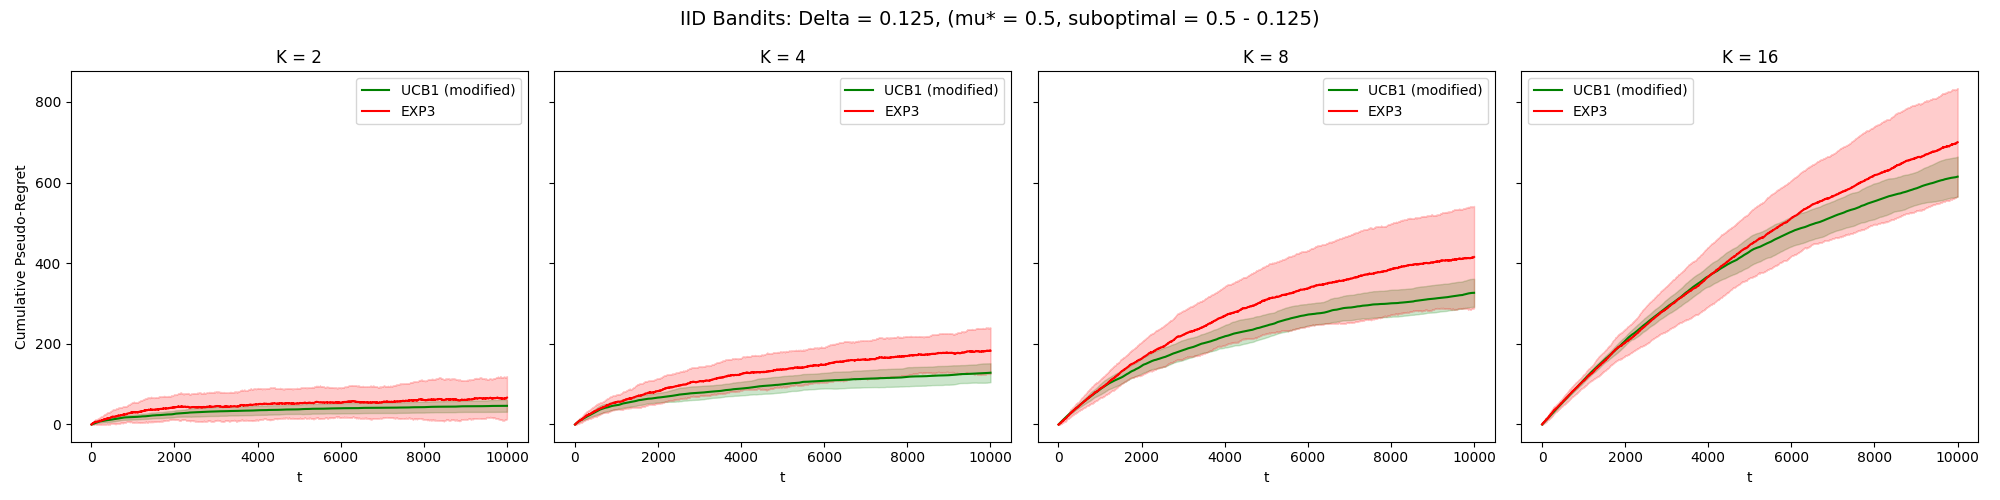
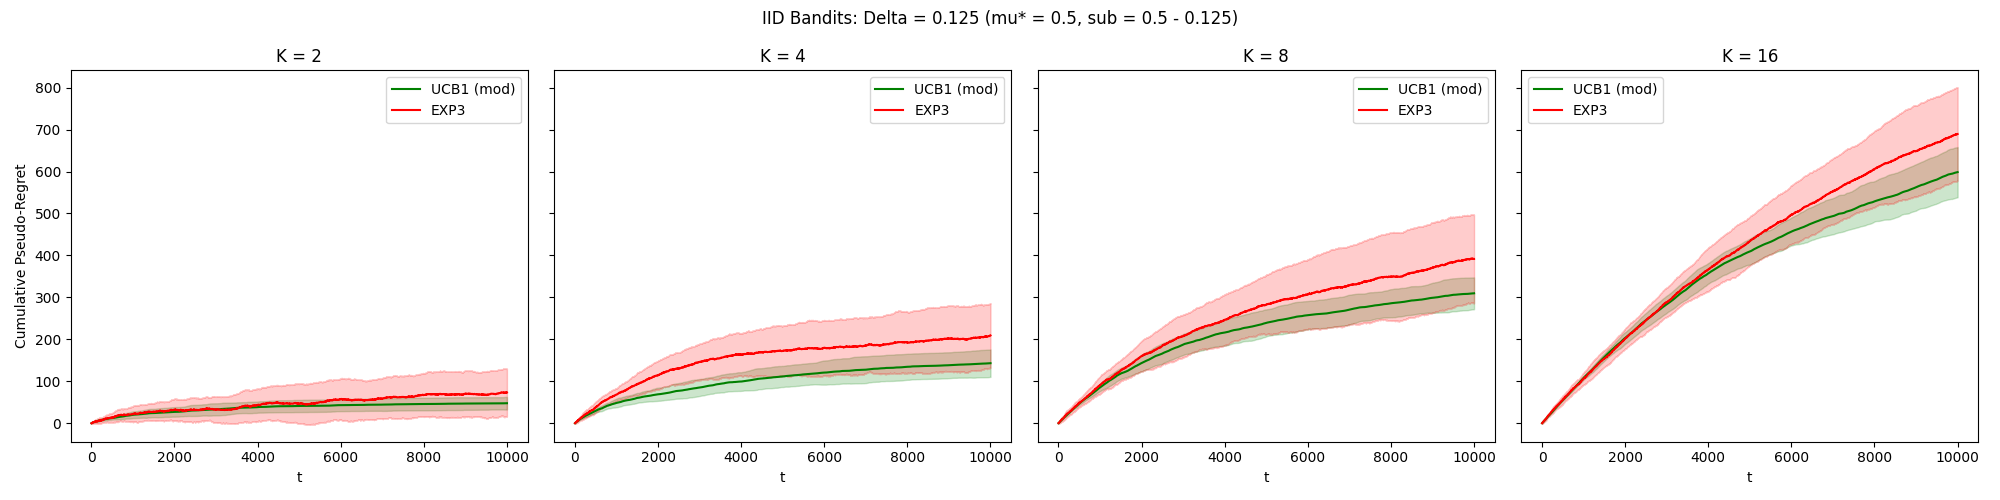
Commented, runned and updated exercise

diff --git a/Home Assignment 5/Code/exercise_5_11.py b/Home Assignment 5/Code/exercise_5_11.py
@@ -1,57 +1,69 @@
 import numpy as np
 import matplotlib
-matplotlib.use('Agg')  # Ensures we can save figures without displaying them
+matplotlib.use('Agg')  # so we can save figures without displaying them
 import matplotlib.pyplot as plt
 
 ###############################################################################
-# 0) ADVERSARIAL REWARD FUNCTION (for worst-case break experiment)
+# 0) ADVERSARIAL REWARD FUNCTION
 ###############################################################################
 def adversarial_reward(t, arm, T, epsilon=0.01):
     """
-    Returns deterministic (or nearly deterministic) rewards for the break experiment.
-    For t < T/2: arm 0 yields 0 and arm 1 yields 1.
-    For t >= T/2: arm 0 yields 1 and arm 1 yields 1 with probability epsilon, else 0.
+    Worst-case reward schedule:
+      - For t < T/2:
+          Arm 0: reward = 0
+          Arm 1: reward = 1
+      - For t >= T/2:
+          Arm 0: reward = 1
+          Arm 1: reward = 1 with probability epsilon, else 0
     """
     if t < T/2:
-        return 0 if arm == 0 else 1
+        # first half: only arm 1 is good
+        return 1 if arm == 1 else 0
     else:
-        return 1 if arm == 0 else (1 if np.random.rand() < epsilon else 0)
+        # second half: only arm 0 is good (arm 1 is almost always bad)
+        if arm == 0:
+            return 1
+        else:
+            return 1 if np.random.rand() < epsilon else 0
 
 ###############################################################################
 # 1) HELPER FUNCTIONS
 ###############################################################################
 def bernoulli_sample(p):
-    """Return 1 with probability p, else 0."""
+    """Returns 1 with probability p, else 0."""
     return 1 if (np.random.rand() < p) else 0
 
-def run_ucb(T, means, version='modified', nonstationary=False, worst_case=False, epsilon=0.01):
+def run_ucb(T, means, version='modified', nonstationary=False,
+            worst_case=False, epsilon=0.01):
     """
-    Run UCB1 (using the 'modified' bonus: sqrt(log t / n_a)) on a bandit problem.
-    If nonstationary is True, then the rewards change after t >= T/2.
-    If worst_case is True, we use a worst-case adversarial reward function (see adversarial_reward).
+    Runs the 'modified' UCB1 algorithm:
+      - bonus = sqrt((log t) / n_arm)
+    If worst_case=True and nonstationary=True, uses 'adversarial_reward' instead
+    of simple Bernoulli with means[].
     """
     n_arms = len(means)
     best_arm = np.argmax(means)
+    # gap[a] = difference between best mean and the mean of arm a
     gap = [means[best_arm] - means[a] for a in range(n_arms)]
     
-    counts = np.zeros(n_arms, dtype=int)   # pulls per arm
-    values = np.zeros(n_arms)             # running average rewards
+    counts = np.zeros(n_arms, dtype=int)  # how many times each arm was played
+    values = np.zeros(n_arms)            # empirical average of each arm
     regrets = np.zeros(T)
     cumulative_regret = 0.0
     
-    # Initialization: pull each arm once.
+    # Initialize by pulling each arm once
     for a in range(n_arms):
         if nonstationary and worst_case:
-            # For initialization, t is taken as a (which is < T/2 if n_arms is small)
-            reward = adversarial_reward(t=a, arm=a, T=T, epsilon=epsilon)
+            reward = adversarial_reward(a, a, T, epsilon)
         elif nonstationary:
-            # Original nonstationary: for arm 1, if a >= T/2 then force reward 0.
+            # If it's the "simple" break scenario: arm 1 => reward=0 if a>=T/2
             if a == 1 and a >= T/2:
                 reward = bernoulli_sample(0.0)
             else:
                 reward = bernoulli_sample(means[a])
         else:
             reward = bernoulli_sample(means[a])
+        
         counts[a] = 1
         values[a] = reward
         cumulative_regret += gap[a]
@@ -59,16 +71,19 @@ def run_ucb(T, means, version='modified', nonstationary=False, worst_case=False,
     
     # Main loop
     for t in range(n_arms, T):
-        current_time = t + 1  # because t starts at 0
+        current_time = t + 1
         ucb_values = np.zeros(n_arms)
         
+        # Compute UCB indices
         for a in range(n_arms):
             avg_reward = values[a]
             bonus = np.sqrt(np.log(current_time) / counts[a])
             ucb_values[a] = avg_reward + bonus
         
+        # Choose the arm with the highest UCB
         chosen_arm = np.argmax(ucb_values)
         
+        # Get the reward depending on the scenario
         if nonstationary and worst_case:
             reward = adversarial_reward(t, chosen_arm, T, epsilon)
         elif nonstationary:
@@ -79,8 +94,11 @@ def run_ucb(T, means, version='modified', nonstationary=False, worst_case=False,
         else:
             reward = bernoulli_sample(means[chosen_arm])
         
+        # Update counts and empirical average
         counts[chosen_arm] += 1
         values[chosen_arm] += (reward - values[chosen_arm]) / counts[chosen_arm]
+        
+        # Update cumulative regret
         cumulative_regret += gap[chosen_arm]
         regrets[t] = cumulative_regret
     
@@ -88,23 +106,31 @@ def run_ucb(T, means, version='modified', nonstationary=False, worst_case=False,
 
 def run_exp3(T, means, nonstationary=False, worst_case=False, epsilon=0.01):
     """
-    Run the EXP3 algorithm with time-varying learning rate eta_t = sqrt(log(K)/(t*K)).
-    For rewards in [0,1], define loss = 1 - reward.
-    If nonstationary and worst_case are True, use adversarial_reward.
+    Runs EXP3 with time-varying learning rate:
+      eta_t = sqrt(log(K) / (t*K))
+    If worst_case=True (and nonstationary=True), uses adversarial_reward.
     """
     n_arms = len(means)
-    best_mean = np.max(means)
+    best_mean = np.max(means)  # might not match actual adv. scenario, can cause negative regrets
     regrets = np.zeros(T)
     cumulative_regret = 0.0
-    L = np.zeros(n_arms)  # cumulative losses
+    
+    # L[a] is cumulative loss for each arm
+    L = np.zeros(n_arms)
     
     for t in range(T):
+        # compute learning rate
         eta_t = np.sqrt(np.log(n_arms) / ((t+1) * n_arms))
+        
+        # subtract-min trick for stability
         L_min = np.min(L)
         w = np.exp(-eta_t * (L - L_min))
         p = w / np.sum(w)
+        
+        # pick an arm according to p
         chosen_arm = np.random.choice(n_arms, p=p)
         
+        # get the reward from environment
         if nonstationary and worst_case:
             reward = adversarial_reward(t, chosen_arm, T, epsilon)
         elif nonstationary:
@@ -115,29 +141,33 @@ def run_exp3(T, means, nonstationary=False, worst_case=False, epsilon=0.01):
         else:
             reward = bernoulli_sample(means[chosen_arm])
         
+        # update pseudo-regret
         cumulative_regret += (best_mean - reward)
         regrets[t] = cumulative_regret
-        est_loss = (1 - reward) / max(p[chosen_arm], 1e-12)
-        L[chosen_arm] += est_loss
+        
+        # update losses for chosen_arm (1 - reward) with importance weighting
+        loss = (1 - reward) / max(p[chosen_arm], 1e-12)
+        L[chosen_arm] += loss
     
     return regrets
 
 ###############################################################################
-# 2) IID EXPERIMENTS (unchanged)
+# 2) IID EXPERIMENTS
 ###############################################################################
 def run_experiments_iid(T=10_000, n_runs=20):
     """
-    Run IID experiments (with different gap values) for each K in {2,4,8,16} comparing:
-       - UCB1 (modified)
-       - EXP3
-    We assume one best arm with mean 0.5 and suboptimal arms with mean 0.5 - Delta.
+    Runs i.i.d. experiments for K in {2,4,8,16} and Delta in {1/4,1/8,1/16}.
+    Compares:
+      - UCB1 (modified)
+      - EXP3
+    We assume one best arm with mean 0.5, suboptimal arms with mean = 0.5 - Delta.
     """
     K_values = [2, 4, 8, 16]
     deltas = [1/4, 1/8, 1/16]
     
     for Delta in deltas:
         fig, axes = plt.subplots(1, len(K_values), figsize=(20,5), sharey=True)
-        fig.suptitle(f"IID Bandits: Delta = {Delta} (mu* = 0.5, suboptimal = 0.5 - {Delta})", fontsize=14)
+        fig.suptitle(f"IID Bandits: Delta = {Delta} (mu* = 0.5, sub = 0.5 - {Delta})")
         
         for i, K in enumerate(K_values):
             mu_star = 0.5
@@ -149,9 +179,10 @@ def run_experiments_iid(T=10_000, n_runs=20):
             
             for r in range(n_runs):
                 reg_ucb = run_ucb(T, means, version='modified', nonstationary=False)
-                all_reg_ucb[r, :] = reg_ucb
-                reg_exp3 = run_exp3(T, means, nonstationary=False)
-                all_reg_exp3[r, :] = reg_exp3
+                all_reg_ucb[r,:] = reg_ucb
+                
+                reg_e3 = run_exp3(T, means, nonstationary=False)
+                all_reg_exp3[r,:] = reg_e3
             
             mean_ucb = np.mean(all_reg_ucb, axis=0)
             std_ucb  = np.std(all_reg_ucb, axis=0)
@@ -160,10 +191,13 @@ def run_experiments_iid(T=10_000, n_runs=20):
             
             ax = axes[i]
             t_axis = np.arange(1, T+1)
-            ax.plot(t_axis, mean_ucb, label="UCB1 (modified)", color='green')
-            ax.fill_between(t_axis, mean_ucb - std_ucb, mean_ucb + std_ucb, alpha=0.2, color='green')
+            ax.plot(t_axis, mean_ucb, label="UCB1 (mod)", color='green')
+            ax.fill_between(t_axis, mean_ucb - std_ucb, mean_ucb + std_ucb,
+                            alpha=0.2, color='green')
             ax.plot(t_axis, mean_exp3, label="EXP3", color='red')
-            ax.fill_between(t_axis, mean_exp3 - std_exp3, mean_exp3 + std_exp3, alpha=0.2, color='red')
+            ax.fill_between(t_axis, mean_exp3 - std_exp3, mean_exp3 + std_exp3,
+                            alpha=0.2, color='red')
+            
             ax.set_title(f"K = {K}")
             ax.set_xlabel("t")
             if i == 0:
@@ -172,40 +206,36 @@ def run_experiments_iid(T=10_000, n_runs=20):
         
         plt.tight_layout()
         delta_str = str(Delta).replace('.', '_')
-        plt.savefig(f"iid_experiment_delta_{delta_str}.png")
+        plt.savefig(f"Home Assignment 5/Code/iid_experiment_delta_{delta_str}.png")
         plt.close()
 
 ###############################################################################
-# 3) WORST-CASE BREAK (ADVERSARIAL) EXPERIMENT
+# 3) WORST-CASE BREAK EXPERIMENT
 ###############################################################################
 def run_experiment_break(T=10_000, n_runs=20, epsilon=0.01):
     """
-    Create a worst-case adversarial environment to break UCB:
-      - 2 arms.
-      For t < T/2:
-          • Arm 0: reward = 0
-          • Arm 1: reward = 1
-      For t >= T/2:
-          • Arm 0: reward = 1  (the new best arm)
-          • Arm 1: reward = 1 with probability epsilon, else 0.
-    This forces UCB (which has been front-loaded on arm 1) to suffer linear regret.
-    Compare UCB1 (modified) vs EXP3.
+    This environment is designed to break UCB:
+      - 2 arms total.
+      - For t < T/2, arm 1 always returns 1, arm 0 returns 0.
+      - For t >= T/2, arm 0 always returns 1, arm 1 returns 1 w/ prob epsilon.
+    UCB invests heavily in arm 1 in the first half and doesn't adapt well
+    in the second half. Meanwhile, EXP3 reweights faster.
     """
-    n_runs = n_runs
     all_regrets_ucb = np.zeros((n_runs, T))
     all_regrets_exp3 = np.zeros((n_runs, T))
     
-    # For the break experiment, we set the "nominal" means to be [0.5, 0.9] for reference,
-    # but the rewards are overridden by adversarial_reward.
+    # The "means" array is just for reference. The real reward function is adversarial_reward.
     means = [0.5, 0.9]
     
     for r in range(n_runs):
-        # Use worst_case=True so that adversarial_reward is used.
-        reg_ucb = run_ucb(T, means, version='modified', nonstationary=True, worst_case=True, epsilon=epsilon)
-        all_regrets_ucb[r, :] = reg_ucb
-        reg_exp3 = run_exp3(T, means, nonstationary=True, worst_case=True, epsilon=epsilon)
-        all_regrets_exp3[r, :] = reg_exp3
+        reg_ucb = run_ucb(T, means, version='modified',
+                          nonstationary=True, worst_case=True, epsilon=epsilon)
+        all_regrets_ucb[r,:] = reg_ucb
+        
+        reg_e3 = run_exp3(T, means, nonstationary=True, worst_case=True, epsilon=epsilon)
+        all_regrets_exp3[r,:] = reg_e3
     
+    # Averages
     mean_ucb = np.mean(all_regrets_ucb, axis=0)
     std_ucb  = np.std(all_regrets_ucb, axis=0)
     mean_exp3 = np.mean(all_regrets_exp3, axis=0)
@@ -214,23 +244,29 @@ def run_experiment_break(T=10_000, n_runs=20, epsilon=0.01):
     t_vals = np.arange(1, T+1)
     plt.figure(figsize=(7,5))
     plt.plot(t_vals, mean_ucb, label="UCB1 (modified)", color='green')
-    plt.fill_between(t_vals, mean_ucb - std_ucb, mean_ucb + std_ucb, alpha=0.2, color='green')
+    plt.fill_between(t_vals, mean_ucb - std_ucb, mean_ucb + std_ucb,
+                     alpha=0.2, color='green')
     plt.plot(t_vals, mean_exp3, label="EXP3", color='red')
-    plt.fill_between(t_vals, mean_exp3 - std_exp3, mean_exp3 + std_exp3, alpha=0.2, color='red')
+    plt.fill_between(t_vals, mean_exp3 - std_exp3, mean_exp3 + std_exp3,
+                     alpha=0.2, color='red')
     
     plt.title("Worst-Case Breaking UCB (Adversarial Setting)")
     plt.xlabel("t")
     plt.ylabel("Cumulative Pseudo-Regret")
     plt.legend()
     plt.tight_layout()
-    plt.savefig("break_experiment_worst_case.png")
+    plt.savefig("Home Assignment 5/Code/break_experiment_worst_case.png")
     plt.close()
 
 ###############################################################################
-# 4) MAIN: RUN EVERYTHING
+# 4) MAIN
 ###############################################################################
 if __name__ == "__main__":
     T = 10_000
     n_runs = 20
+    
+    # Run the IID experiments first
     run_experiments_iid(T=T, n_runs=n_runs)
+    
+    # Then run the worst-case break experiment
     run_experiment_break(T=T, n_runs=n_runs, epsilon=0.01)
